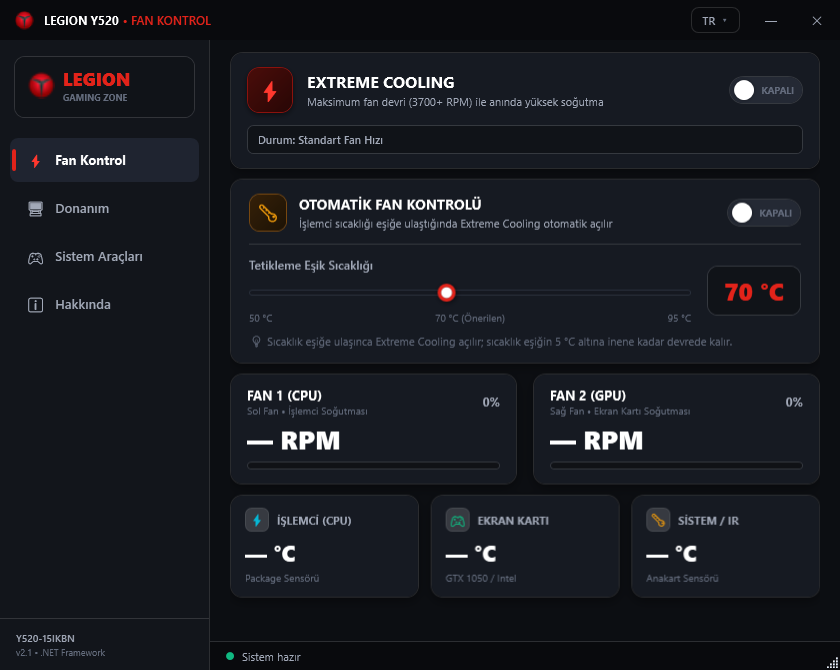
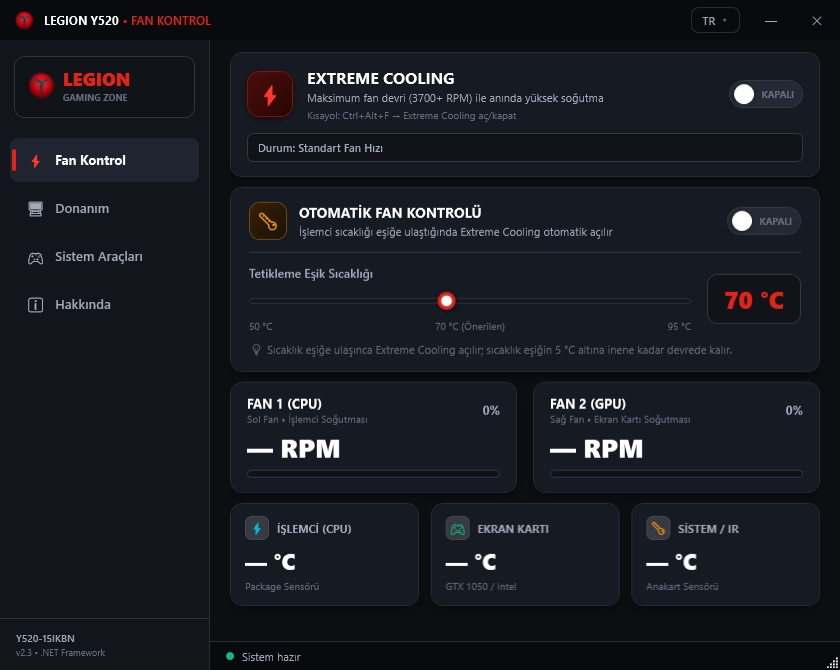
Legion Y520 Fan Kontrol v2.4
- Global kisayol: Ctrl+Alt+F ile Extreme Cooling her yerden acilip kapatilabilir
- Tray menusunde anlik CPU/GPU sicakligi ve fan RPM bilgisi
- Hero kartina kisayol ipucu eklendi, KULLANIM.txt guncellendi

diff --git a/Program.cs b/Program.cs
@@ -359,6 +359,7 @@ namespace LegionFanControl
         private TextBlock _updateStatusText, _updateDownloadTb;
         private System.Windows.Documents.Run _updateDownloadRun, _updateBannerRun;
         private Forms.ToolStripMenuItem _trayToggleItem, _trayShowItem, _trayExitItem;
+        private Forms.ToolStripMenuItem _trayInfoCpu, _trayInfoGpu, _trayInfoFans;
         private Drawing.Icon _iconOn, _iconOff;
 
         public MainWindow()
@@ -414,6 +415,7 @@ namespace LegionFanControl
             {
                 _timer.Stop();
                 _lhm.Close();
+                if (_hwnd != IntPtr.Zero) UnregisterHotKey(_hwnd, HotkeyId);
                 if (_tray != null) { _tray.Visible = false; _tray.Dispose(); }
                 if (_hw != null) _hw.Dispose();
             };
@@ -515,20 +517,47 @@ namespace LegionFanControl
         [System.Runtime.InteropServices.DllImport("dwmapi.dll")]
         private static extern int DwmSetWindowAttribute(IntPtr hwnd, int attr, ref int attrValue, int attrSize);
 
+        [System.Runtime.InteropServices.DllImport("user32.dll")]
+        private static extern bool RegisterHotKey(IntPtr hWnd, int id, uint fsModifiers, uint vk);
+        [System.Runtime.InteropServices.DllImport("user32.dll")]
+        private static extern bool UnregisterHotKey(IntPtr hWnd, int id);
+
+        private const int HotkeyId = 0x51F4;
+        private const uint ModControl = 0x0002, ModAlt = 0x0001, KeyF = 0x46;
+        private IntPtr _hwnd = IntPtr.Zero;
+
         protected override void OnSourceInitialized(EventArgs e)
         {
             base.OnSourceInitialized(e);
             try
             {
                 var helper = new System.Windows.Interop.WindowInteropHelper(this);
+                _hwnd = helper.Handle;
                 int darkMode = 1;
                 DwmSetWindowAttribute(helper.Handle, 20, ref darkMode, sizeof(int));
                 DwmSetWindowAttribute(helper.Handle, 19, ref darkMode, sizeof(int));
 
                 int val = 2; // DWMWCP_ROUND (Windows 11 standard rounded corners)
                 DwmSetWindowAttribute(helper.Handle, 33, ref val, sizeof(int));
+
+                // Global kisayol: Ctrl+Alt+F -> Extreme Cooling ac/kapat
+                var src = System.Windows.Interop.HwndSource.FromHwnd(helper.Handle);
+                if (src != null) src.AddHook(WndProc);
+                RegisterHotKey(helper.Handle, HotkeyId, ModControl | ModAlt, KeyF);
             }
             catch { }
+        }
+
+        private IntPtr WndProc(IntPtr hwnd, int msg, IntPtr wParam, IntPtr lParam, ref bool handled)
+        {
+            const int WmHotkey = 0x0312;
+            if (msg == WmHotkey && wParam.ToInt32() == HotkeyId)
+            {
+                handled = true;
+                if (_extremeSwitch != null)
+                    ToggleCooling(!_extremeSwitch.IsChecked);
+            }
+            return IntPtr.Zero;
         }
 
         // ---------------- UI Tasarimi ----------------
@@ -1196,6 +1225,13 @@ namespace LegionFanControl
                 Margin = new Thickness(0, 2, 0, 0)
             };
             textStack.Children.Add(_heroDescText);
+            textStack.Children.Add(new TextBlock
+            {
+                Text = Lang.T("hero.hotkey"),
+                Foreground = TextMutedBrush,
+                FontSize = 10,
+                Margin = new Thickness(0, 3, 0, 0)
+            });
             topRow.Children.Add(textStack);
 
             // Switch
@@ -1993,6 +2029,20 @@ namespace LegionFanControl
             Poll();
         }
 
+        private void UpdateTrayInfo(float? cpu, float? gpu, uint fan1, uint fan2)
+        {
+            if (_trayInfoCpu != null) _trayInfoCpu.Text = Lang.F("tray.info.cpu", FmtTemp(cpu));
+            if (_trayInfoGpu != null) _trayInfoGpu.Text = Lang.F("tray.info.gpu", FmtTemp(gpu));
+            if (_trayInfoFans != null)
+                _trayInfoFans.Text = Lang.F("tray.info.fans",
+                    (fan1 > 0 || fan2 > 0) ? fan1 + " / " + fan2 + " RPM" : "—");
+        }
+
+        private static string FmtTemp(float? t)
+        {
+            return t.HasValue && t.Value > 0 ? ((int)Math.Round(t.Value) + " °C") : "—";
+        }
+
         private void UpdateTrayLanguage()
         {
             if (_tray == null) return;
@@ -2008,7 +2058,7 @@ namespace LegionFanControl
 
         // ---------------- 4. Sayfa: HAKKINDA ----------------
         private const string GitHubUrl = "https://github.com/fatih5228/LegionFanControl";
-        public const string CurrentVersion = "2.3";
+        public const string CurrentVersion = "2.4";
         private const string GitHubLatestReleasePage = GitHubUrl + "/releases/latest";
         private const string GitHubApiLatestRelease = "https://api.github.com/repos/fatih5228/LegionFanControl/releases/latest";
 
@@ -2468,6 +2518,7 @@ namespace LegionFanControl
                         SetTempBadge(_cpuTempVal, _cpuTempBadge, null);
                         SetTempBadge(_gpuTempVal, _gpuTempBadge, null);
                         SetTempBadge(_irTempVal, _irTempBadge, null);
+                        UpdateTrayInfo(null, null, 0, 0);
                         return;
                     }
 
@@ -2481,6 +2532,7 @@ namespace LegionFanControl
                     SetTempBadge(_cpuTempVal, _cpuTempBadge, effCpu);
                     SetTempBadge(_gpuTempVal, _gpuTempBadge, lhmGpu);
                     SetTempBadge(_irTempVal, _irTempBadge, irT > 0 ? (float?)irT : (float?)null);
+                    UpdateTrayInfo(effCpu, lhmGpu, fan1, fan2);
 
                     SetStatus(Lang.F("status.lastupdate", DateTime.Now.ToString("HH:mm:ss")) +
                               (lhmNote != null ? "  •  " + lhmNote : ""), false);
@@ -2620,6 +2672,13 @@ namespace LegionFanControl
             };
 
             var menu = new Forms.ContextMenuStrip();
+            _trayInfoCpu = new Forms.ToolStripMenuItem(Lang.F("tray.info.cpu", "—")) { Enabled = false };
+            _trayInfoGpu = new Forms.ToolStripMenuItem(Lang.F("tray.info.gpu", "—")) { Enabled = false };
+            _trayInfoFans = new Forms.ToolStripMenuItem(Lang.F("tray.info.fans", "—")) { Enabled = false };
+            menu.Items.Add(_trayInfoCpu);
+            menu.Items.Add(_trayInfoGpu);
+            menu.Items.Add(_trayInfoFans);
+            menu.Items.Add(new Forms.ToolStripSeparator());
             _trayShowItem = new Forms.ToolStripMenuItem(Lang.T("tray.show"));
             _trayShowItem.Click += (s, e) => ShowWindow();
             menu.Items.Add(_trayShowItem);

diff --git a/Lang.cs b/Lang.cs
@@ -54,6 +54,7 @@ namespace LegionFanControl
             { "hero.badge.init",    "Durum: Standart Fan Hızı" },
             { "hero.status.on",     "● Extreme Cooling Aktif - Maksimum Fan Devri Devrede" },
             { "hero.status.off",    "○ Standart Fan Eğrisi Devrede" },
+            { "hero.hotkey",        "Kısayol: Ctrl+Alt+F → Extreme Cooling aç/kapat" },
 
             { "auto.title",         "OTOMATİK FAN KONTROLÜ" },
             { "auto.desc",          "İşlemci sıcaklığı eşiğe ulaştığında Extreme Cooling otomatik açılır" },
@@ -99,7 +100,7 @@ namespace LegionFanControl
             { "startup.fail",       "Başlangıç ayarı değiştirilemedi: {0}" },
 
             { "about.title",        "HAKKINDA" },
-            { "about.version",      "Sürüm 2.3 • .NET Framework (WPF)" },
+            { "about.version",      "Sürüm 2.4 • .NET Framework (WPF)" },
             { "about.desc",         "Lenovo Legion Y520 için Extreme Cooling, otomatik fan kontrolü ve oyun araçları." },
             { "about.dev",          "GELİŞTİRİCİ" },
             { "about.gh",           "KAYNAK KOD & GÜNCELLEMELER" },
@@ -117,6 +118,9 @@ namespace LegionFanControl
             { "update.balloon.title", "Güncelleme Mevcut" },
 
             { "tray.tip",           "Legion Y520 Fan Kontrol" },
+            { "tray.info.cpu",      "CPU: {0}" },
+            { "tray.info.gpu",      "GPU: {0}" },
+            { "tray.info.fans",     "Fanlar: {0}" },
             { "tray.show",          "Pencereyi Göster" },
             { "tray.cool.on",       "Extreme Cooling Aç" },
             { "tray.cool.off",      "Extreme Cooling Kapat" },
@@ -147,6 +151,7 @@ namespace LegionFanControl
             { "hero.badge.init",    "Status: Standard Fan Speed" },
             { "hero.status.on",     "● Extreme Cooling Active - Maximum Fan Speed Engaged" },
             { "hero.status.off",    "○ Standard Fan Curve Active" },
+            { "hero.hotkey",        "Shortcut: Ctrl+Alt+F → Toggle Extreme Cooling" },
 
             { "auto.title",         "AUTOMATIC FAN CONTROL" },
             { "auto.desc",          "Extreme Cooling turns on automatically when CPU temperature reaches the threshold" },
@@ -192,7 +197,7 @@ namespace LegionFanControl
             { "startup.fail",       "Could not change startup setting: {0}" },
 
             { "about.title",        "ABOUT" },
-            { "about.version",      "Version 2.3 • .NET Framework (WPF)" },
+            { "about.version",      "Version 2.4 • .NET Framework (WPF)" },
             { "about.desc",         "Extreme Cooling, automatic fan control and gaming tools for Lenovo Legion Y520." },
             { "about.dev",          "DEVELOPER" },
             { "about.gh",           "SOURCE CODE & UPDATES" },
@@ -210,6 +215,9 @@ namespace LegionFanControl
             { "update.balloon.title", "Update Available" },
 
             { "tray.tip",           "Legion Y520 Fan Control" },
+            { "tray.info.cpu",      "CPU: {0}" },
+            { "tray.info.gpu",      "GPU: {0}" },
+            { "tray.info.fans",     "Fans: {0}" },
             { "tray.show",          "Show Window" },
             { "tray.cool.on",       "Turn Extreme Cooling On" },
             { "tray.cool.off",      "Turn Extreme Cooling Off" },

diff --git a/README.md b/README.md
@@ -28,8 +28,8 @@ Extreme Cooling, temperature-threshold auto fan mode, hardware monitoring and ga
 
 [Releases](https://github.com/fatih5228/LegionFanControl/releases) sayfasından:
 
-- **LegionFanControl-Setup-v2.3.exe** — kurulum sihirbazı (önerilen) / installer (recommended)
-- **LegionFanControl-v2.3.zip** — kurulumsuz taşınabilir sürüm / portable version
+- **LegionFanControl-Setup-v2.4.exe** — kurulum sihirbazı (önerilen) / installer (recommended)
+- **LegionFanControl-v2.4.zip** — kurulumsuz taşınabilir sürüm / portable version
 
 > Uygulama WMI ve donanım sensörlerine erişmek için yönetici yetkisi ister.
 > The app requires administrator rights (WMI + hardware sensors).
